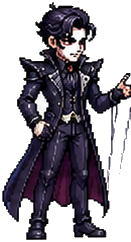
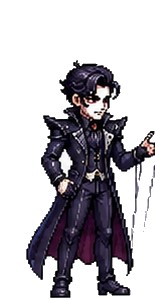
Frames de sprites uniformes con linea base comun y mayor tamano
- Re-recorte: lienzos fijos de 155x300 por frame con los pies de
  todas las poses alineados (antes cada frame se ajustaba a su
  contenido y el personaje cambiaba de escala entre poses)
- spriteHeight por personaje (210/228) para compensar el aire del
  lienzo y verse al tamano correcto en el escenario
- Carta de seleccion ajustada al nuevo lienzo

diff --git a/js/characters.js b/js/characters.js
@@ -43,6 +43,7 @@ const CHARACTERS = [
     name: 'BARBERO',
     title: 'El Titiritero',
     spriteFolder: 'img/barbero',
+    spriteHeight: 210,  // alto del lienzo del sprite en pantalla (el cuerpo ocupa ~80%)
     color: '#8b5cf6',
     skinColor: '#fcd9b8',
     hairColor: '#27272a',
@@ -64,6 +65,7 @@ const CHARACTERS = [
     name: 'MERYG',
     title: 'La Voz del Pueblo',
     spriteFolder: 'img/meryg',
+    spriteHeight: 228,  // alto del lienzo del sprite en pantalla (el cuerpo ocupa ~75%)
     color: '#ec4899',
     skinColor: '#f3c6a5',
     hairColor: '#7c2d12',

diff --git a/js/game.js b/js/game.js
@@ -483,7 +483,7 @@ function drawSelect() {
     // figura del personaje (sprite si lo tiene, muñeco si no)
     const cardSprite = Sprites.get(def, 'idle1');
     if (cardSprite) {
-      const sh = 155;
+      const sh = 175; // el lienzo trae aire arriba: así el cuerpo llena la carta
       const sw = sh * cardSprite.width / cardSprite.height;
       ctx.drawImage(cardSprite, x + cardW / 2 - sw / 2, y + 200 - sh, sw, sh);
     } else {
